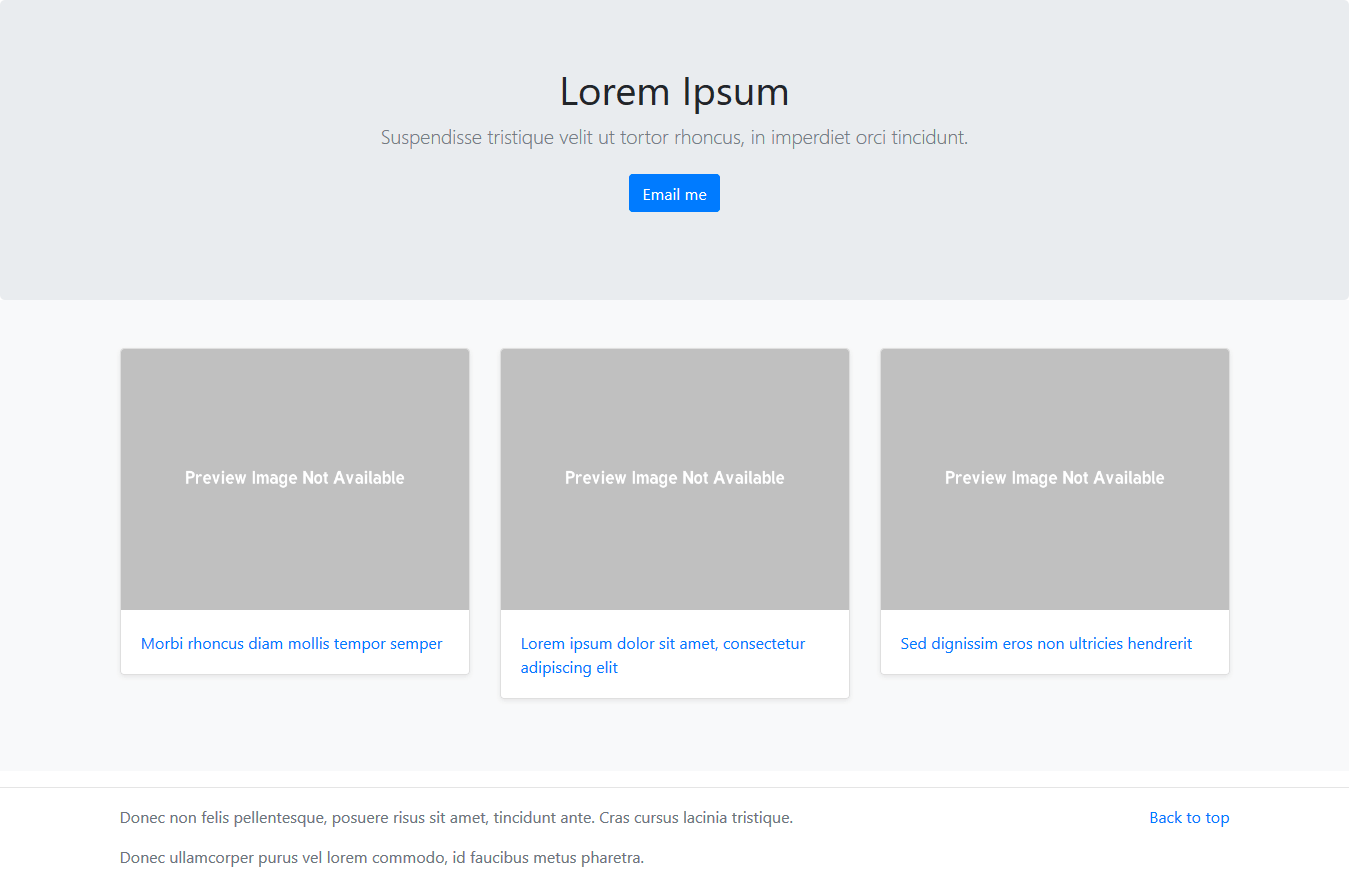
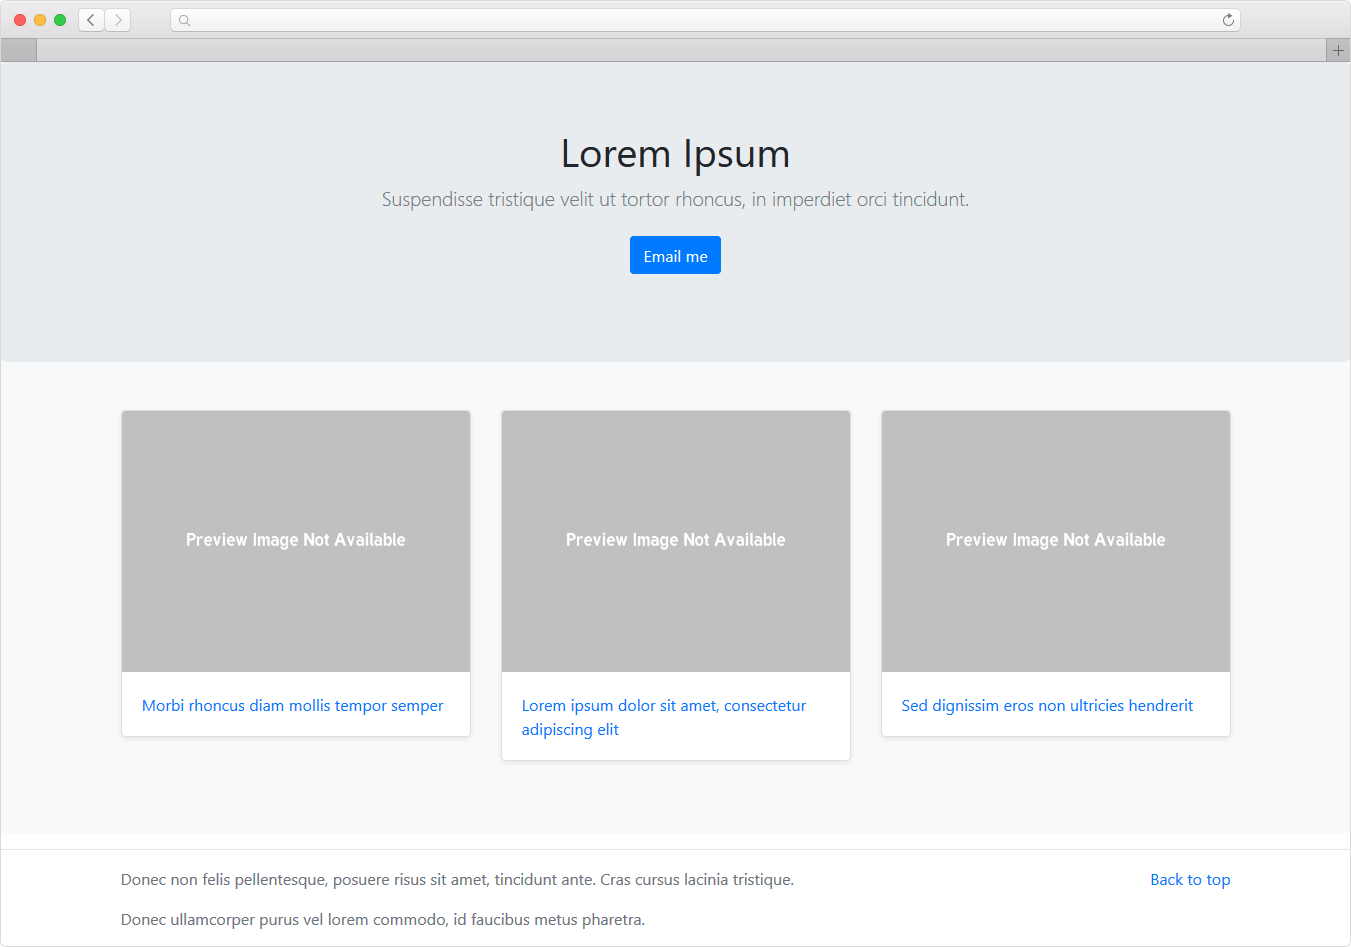
updated

diff --git a/README.md b/README.md
@@ -1,7 +1,7 @@
 # Portfolio 
 > A simple django website
 
-<img src="screenshot.png" alt="logo" width="400"/>
+<img class = "allSides" src="screenshot.png" alt="logo" width="500"/>
 
 #### Demo : https://web-portfolio-django.herokuapp.com
 
@@ -21,3 +21,4 @@
 ## License
 MIT
 
+<style> .allSides { border: solid 1px #555; background-color: #eed; box-shadow: 0 0 10px rgba(0,0,0,0.6); -moz-box-shadow: 0 0 10px rgba(0,0,0,0.6); -webkit-box-shadow: 0 0 10px rgba(0,0,0,0.6); -o-box-shadow: 0 0 10px rgba(0,0,0,0.6); } </style>
